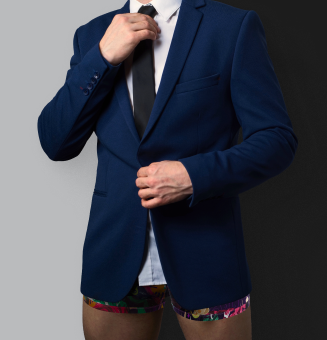
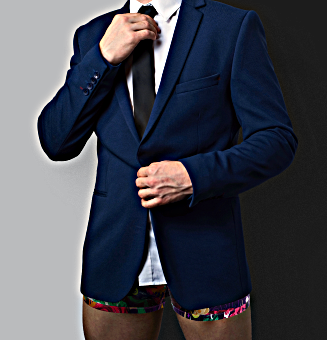
Вносит изменения в соответствии с правками

diff --git a/source/faq.html b/source/faq.html
@@ -89,14 +89,13 @@
           <div class="faq__links" data-tabs="controls" data-accordion="parent" data-destroy="(max-width: 767px)"
             data-single>
             <div class="faq__link-wrapper is-active" data-accordion="element">
-              <button class="faq__link" type="button" data-tabs="control" data-accordion="button">
+              <button class="faq__link faq__link--top" type="button" data-tabs="control" data-accordion="button">
                 <span>How does it work?</span>
                 <svg class="faq__link-icon" width="24" height="15">
                   <use xlink:href="img/sprite.svg#icon-arrow"></use>
                 </svg>
               </button>
               <div class="faq__content-item faq__content-item--small" data-accordion="content">
-                <h2 class="faq__content-title">How does it work?</h2>
                 <ul class="faq__list" data-accordion="parent" data-single>
                   <li class="faq__item" data-accordion="element">
                     <button class="faq__question" type="button" data-accordion="button">
@@ -164,7 +163,6 @@
                 </svg>
               </button>
               <div class="faq__content-item faq__content-item--small" data-accordion="content">
-                <h2 class="faq__content-title">Shipping / Delivery</h2>
                 <ul class="faq__list" data-accordion="parent" data-single>
                   <li class="faq__item" data-accordion="element">
                     <button class="faq__question" type="button" data-accordion="button">
@@ -235,7 +233,7 @@
                         <li>Follow the steps and we will do the rest!</li>
                       </ol>
                       <p>Have you not received several deliveries this month, but you have paid for them? If so, send us
-                        an <a href=#>email</a> and we will solve that for you.</p>
+                        an <a href=#>E-mail</a> and we will solve that for you.</p>
                     </div>
                   </li>
                 </ul>
@@ -249,7 +247,6 @@
                 </svg>
               </button>
               <div class="faq__content-item faq__content-item--small" data-accordion="content">
-                <h2 class="faq__content-title">Returns / Exchanges</h2>
                 <ul class="faq__list" data-accordion="parent" data-single>
                   <li class="faq__item" data-accordion="element">
                     <button class="faq__question" type="button" data-accordion="button">
@@ -319,7 +316,6 @@
                 </svg>
               </button>
               <div class="faq__content-item faq__content-item--small" data-accordion="content">
-                <h2 class="faq__content-title">Pause / Cancel</h2>
                 <ul class="faq__list" data-accordion="parent" data-single>
                   <li class="faq__item" data-accordion="element">
                     <button class="faq__question" type="button" data-accordion="button">
@@ -424,7 +420,6 @@
                 </svg>
               </button>
               <div class="faq__content-item faq__content-item--small" data-accordion="content">
-                <h2 class="faq__content-title">Change Data</h2>
                 <ul class="faq__list" data-accordion="parent" data-single>
                   <li class="faq__item" data-accordion="element">
                     <button class="faq__question" type="button" data-accordion="button">
@@ -531,7 +526,6 @@
                 </svg>
               </button>
               <div class="faq__content-item faq__content-item--small" data-accordion="content">
-                <h2 class="faq__content-title">Payment</h2>
                 <ul class="faq__list" data-accordion="parent" data-single>
                   <li class="faq__item" data-accordion="element">
                     <button class="faq__question" type="button" data-accordion="button">
@@ -601,7 +595,7 @@
                       <p>By verifying your payment details, you consent to the direct debit of the monthly fees. When
                         cancelling a membership, we apply a notice period and you have a payment obligation.</p>
                       <p>Are you unable to make the payment via the options above, is there a problem with your payment
-                        details or has the payment already been made? Send and <a href="#">e-mail</a> to our Customer
+                        details or has the payment already been made? Send and <a href="#">E-mail</a> to our Customer
                         Service Team. We will help you to make sure to settle this in time. </p>
                     </div>
                   </li>
@@ -627,7 +621,6 @@
                 </svg>
               </button>
               <div class="faq__content-item faq__content-item--small" data-accordion="content">
-                <h2 class="faq__content-title">Boxer Shorts</h2>
                 <ul class="faq__list" data-accordion="parent" data-single>
                   <li class="faq__item" data-accordion="element">
                     <button class="faq__question" type="button" data-accordion="button">
@@ -723,7 +716,6 @@
                 </svg>
               </button>
               <div class="faq__content-item faq__content-item--small" data-accordion="content">
-                <h2 class="faq__content-title">Extra</h2>
                 <ul class="faq__list" data-accordion="parent" data-single>
                   <li class="faq__item" data-accordion="element">
                     <button class="faq__question" type="button" data-accordion="button">
@@ -788,7 +780,6 @@
                 </svg>
               </button>
               <div class="faq__content-item faq__content-item--small" data-accordion="content">
-                <h2 class="faq__content-title">Contact</h2>
                 <ul class="faq__list">
                   <li class="faq__item">
                     <div class="faq__answer">
@@ -932,7 +923,7 @@
                       <li>Follow the steps and we will do the rest!</li>
                     </ol>
                     <p>Have you not received several deliveries this month, but you have paid for them? If so, send us
-                      an <a href=#>email</a> and we will solve that for you.</p>
+                      an <a href=#>E-mail</a> and we will solve that for you.</p>
                   </div>
                 </li>
               </ul>
@@ -1265,7 +1256,7 @@
                     <p>By verifying your payment details, you consent to the direct debit of the monthly fees. When
                       cancelling a membership, we apply a notice period and you have a payment obligation.</p>
                     <p>Are you unable to make the payment via the options above, is there a problem with your payment
-                      details or has the payment already been made? Send and <a href="#">e-mail</a> to our Customer
+                      details or has the payment already been made? Send and <a href="#">E-mail</a> to our Customer
                       Service Team. We will help you to make sure to settle this in time. </p>
                   </div>
                 </li>

diff --git a/source/index.html b/source/index.html
@@ -121,8 +121,8 @@
                   <source type="image/webp" srcset="img/promo-bg-2-mobile@1x.webp 1x, img/promo-bg-2-mobile@1x.webp 2x">
                   <source media="(min-width: 768px)"
                     srcset="img/promo-bg-2-desktop@1x.png 1x, img/promo-bg-2-desktop@2x.png 2x">
-                  <img class="promo__img" width="327" height="340" src="img/promo-bg-2-mobile@1x.png"
-                    srcset="img/promo-bg-2-mobile@2x.png 2x" alt="A man in boxers.">
+                  <img class="promo__img" width="327" height="340" src="img/promo-bg-2-mobile@1x.jpg"
+                    srcset="img/promo-bg-2-mobile@2x.jpg 2x" alt="A man in boxers.">
                 </picture>
               </div>
               <div class="promo__text-wrapper">
@@ -218,7 +218,7 @@
               <h3 class="subscription__item-title subscription__item-title--design">Design</h3>
               <p class="subscription__description">Boxers with unique design print</p>
               <p class="subscription__proposal">$10.99
-                <span>free shipping</span>
+                <span>Free shipping</span>
               </p>
             </div>
             <a class="subscription__button button button--accent" href="#" data-open-modal="modal-form">Try it
@@ -239,7 +239,7 @@
               <h3 class="subscription__item-title">Black</h3>
               <p class="subscription__description">Single color boxers with a&nbsp;branded elastic band</p>
               <p class="subscription__proposal">$10.99
-                <span>free shipping</span>
+                <span>Free shipping</span>
               </p>
             </div>
             <a class="subscription__button button button--accent" href="#" data-open-modal="modal-form">Try it
@@ -300,6 +300,18 @@
               <use xlink:href="img/sprite.svg#icon-fire"></use>
             </svg>
           </div>
+          <div class="advantages__text advantages__text--large-media">
+            <p>anatomical shape</p>
+            <svg class="advantages__icon" width="22" height="36">
+              <use xlink:href="img/sprite.svg#icon-fire"></use>
+            </svg>
+          </div>
+          <div class="advantages__text advantages__text--large-media">
+            <p>anatomical shape</p>
+            <svg class="advantages__icon" width="22" height="36">
+              <use xlink:href="img/sprite.svg#icon-fire"></use>
+            </svg>
+          </div>
         </div>
         <div class="advantages__line advantages__line--light">
           <div class="advantages__text advantages__text--light">
@@ -332,6 +344,12 @@
               <use xlink:href="img/sprite.svg#icon-fire"></use>
             </svg>
           </div>
+          <div class="advantages__text advantages__text--light advantages__text--large-media">
+            <p>breathable material</p>
+            <svg class="advantages__icon" width="22" height="36">
+              <use xlink:href="img/sprite.svg#icon-fire"></use>
+            </svg>
+          </div>
         </div>
         <div class="advantages__line">
           <div class="advantages__text">
@@ -359,6 +377,18 @@
             </svg>
           </div>
           <div class="advantages__text">
+            <p>soft rubber band</p>
+            <svg class="advantages__icon" width="22" height="36">
+              <use xlink:href="img/sprite.svg#icon-fire"></use>
+            </svg>
+          </div>
+          <div class="advantages__text advantages__text--large-media">
+            <p>soft rubber band</p>
+            <svg class="advantages__icon" width="22" height="36">
+              <use xlink:href="img/sprite.svg#icon-fire"></use>
+            </svg>
+          </div>
+          <div class="advantages__text advantages__text--large-media">
             <p>soft rubber band</p>
             <svg class="advantages__icon" width="22" height="36">
               <use xlink:href="img/sprite.svg#icon-fire"></use>

diff --git a/source/sass/blocks/faq.scss b/source/sass/blocks/faq.scss
@@ -90,9 +90,15 @@
     min-width: 437px;
   }
 
-  &:first-child {
+  &--top {
     @media (min-width: var.$tablet-width) {
       border: 1px solid var.$light-grey;
+    }
+  }
+
+  &--top.is-active {
+    @media (min-width: var.$tablet-width) {
+      border: 1px solid var.$nero;
     }
   }
 
@@ -117,18 +123,6 @@
     display: none;
   }
 }
-
-.faq__link.is-active {
-  .faq__link-icon {
-    transform: translateY(-50%) rotate(180deg);
-  }
-
-  @media (min-width: var.$tablet-width) {
-    color: var.$white;
-    background-color: var.$nero;
-  }
-}
-
 
 .faq__content-item {
   padding: 0 24px;
@@ -158,8 +152,17 @@
 .faq__link-wrapper.is-active {
   .faq__content-item {
     &--small {
-      padding: 10px 24px 10px 24px;
+      padding: 10px 0;
     }
+  }
+
+  .faq__link-icon {
+    transform: translateY(-50%) rotate(180deg);
+  }
+
+  @media (min-width: var.$tablet-width) {
+    color: var.$white;
+    background-color: var.$nero;
   }
 }
 
@@ -190,6 +193,7 @@
   font-size: 20px;
   line-height: 19px;
   text-align: left;
+  color: var.$nero;
   background-color: var.$transparent;
   border: none;
   border-bottom: 1px solid var.$gainsboro;
@@ -222,9 +226,13 @@
     border-bottom-color: var.$nero;
   }
 
+  @media (min-width: var.$tablet-width) {
+    padding: 34px 16px;
+  }
+
   span {
     display: block;
-    max-width: 250px;
+    max-width: 200px;
 
     @media (min-width: var.$tablet-width) {
       max-width: 300px;
@@ -243,12 +251,17 @@
   color: var.$nero-2;
 
   p {
-    margin: 0 0 10px 0;
+    margin: 0 0 8px 0;
   }
 
   ol,
   ul {
-    margin: 0 0 10px 0;
+    margin: 0 0 24px 0;
+  }
+
+  a {
+    text-decoration: underline;
+    color: var.$nero;
   }
 }
 

diff --git a/source/sass/blocks/modal.scss b/source/sass/blocks/modal.scss
@@ -145,6 +145,13 @@
       }
     }
   }
+
+  .input-message.is-invalid {
+    margin: 8px 0 0 0;
+    font-size: 14px;
+    line-height: 13px;
+    color: var.$harley-davidson-orange;
+  }
 }
 
 .modal__form-label {
@@ -195,6 +202,9 @@
   top: 50%;
   right: 15px;
   opacity: 0;
+  display: flex;
+  align-items: center;
+  justify-content: center;
   transform: translateY(-50%);
   padding: 0;
   background-color: var.$transparent;
@@ -213,4 +223,5 @@
 
 .modal__form-input.error + .modal__button-reset {
   color: var.$harley-davidson-orange;
+  opacity: 1;
 }

diff --git a/source/sass/blocks/promo.scss b/source/sass/blocks/promo.scss
@@ -187,6 +187,12 @@
     background-color: var.$transparent;
     border: 1px solid var.$light-grey;
     opacity: 1;
+    transition: 0.3s ease-out;
+
+    &:hover,
+    &:focus {
+      border-color: var.$nero;
+    }
 
     @media (min-width: var.$tablet-width) {
       width: 78px;

diff --git a/source/sass/blocks/advantages.scss b/source/sass/blocks/advantages.scss
@@ -117,6 +117,12 @@
   &--light {
     color: var.$brilliant-rose;
   }
+
+  &--large-media {
+    @media (max-width: 1920px) {
+      display: none;
+    }
+  }
 }
 
 @keyframes marquee-infinite {

diff --git a/source/sass/blocks/button.scss b/source/sass/blocks/button.scss
@@ -3,6 +3,7 @@
 .button {
   display: block;
   padding: 19px 18px 18px 18px;
+  font-family: var.$primary-font;
   font-size: 16px;
   line-height: 14px;
   text-transform: uppercase;

diff --git a/source/sass/blocks/lookbook.scss b/source/sass/blocks/lookbook.scss
@@ -126,7 +126,7 @@
 
 .lookbook__item-title {
   margin: 0 0 33px 0;
-  font-weight: 400;
+  font-weight: 300;
   font-size: 18px;
   line-height: 24px;
   text-transform: uppercase;
